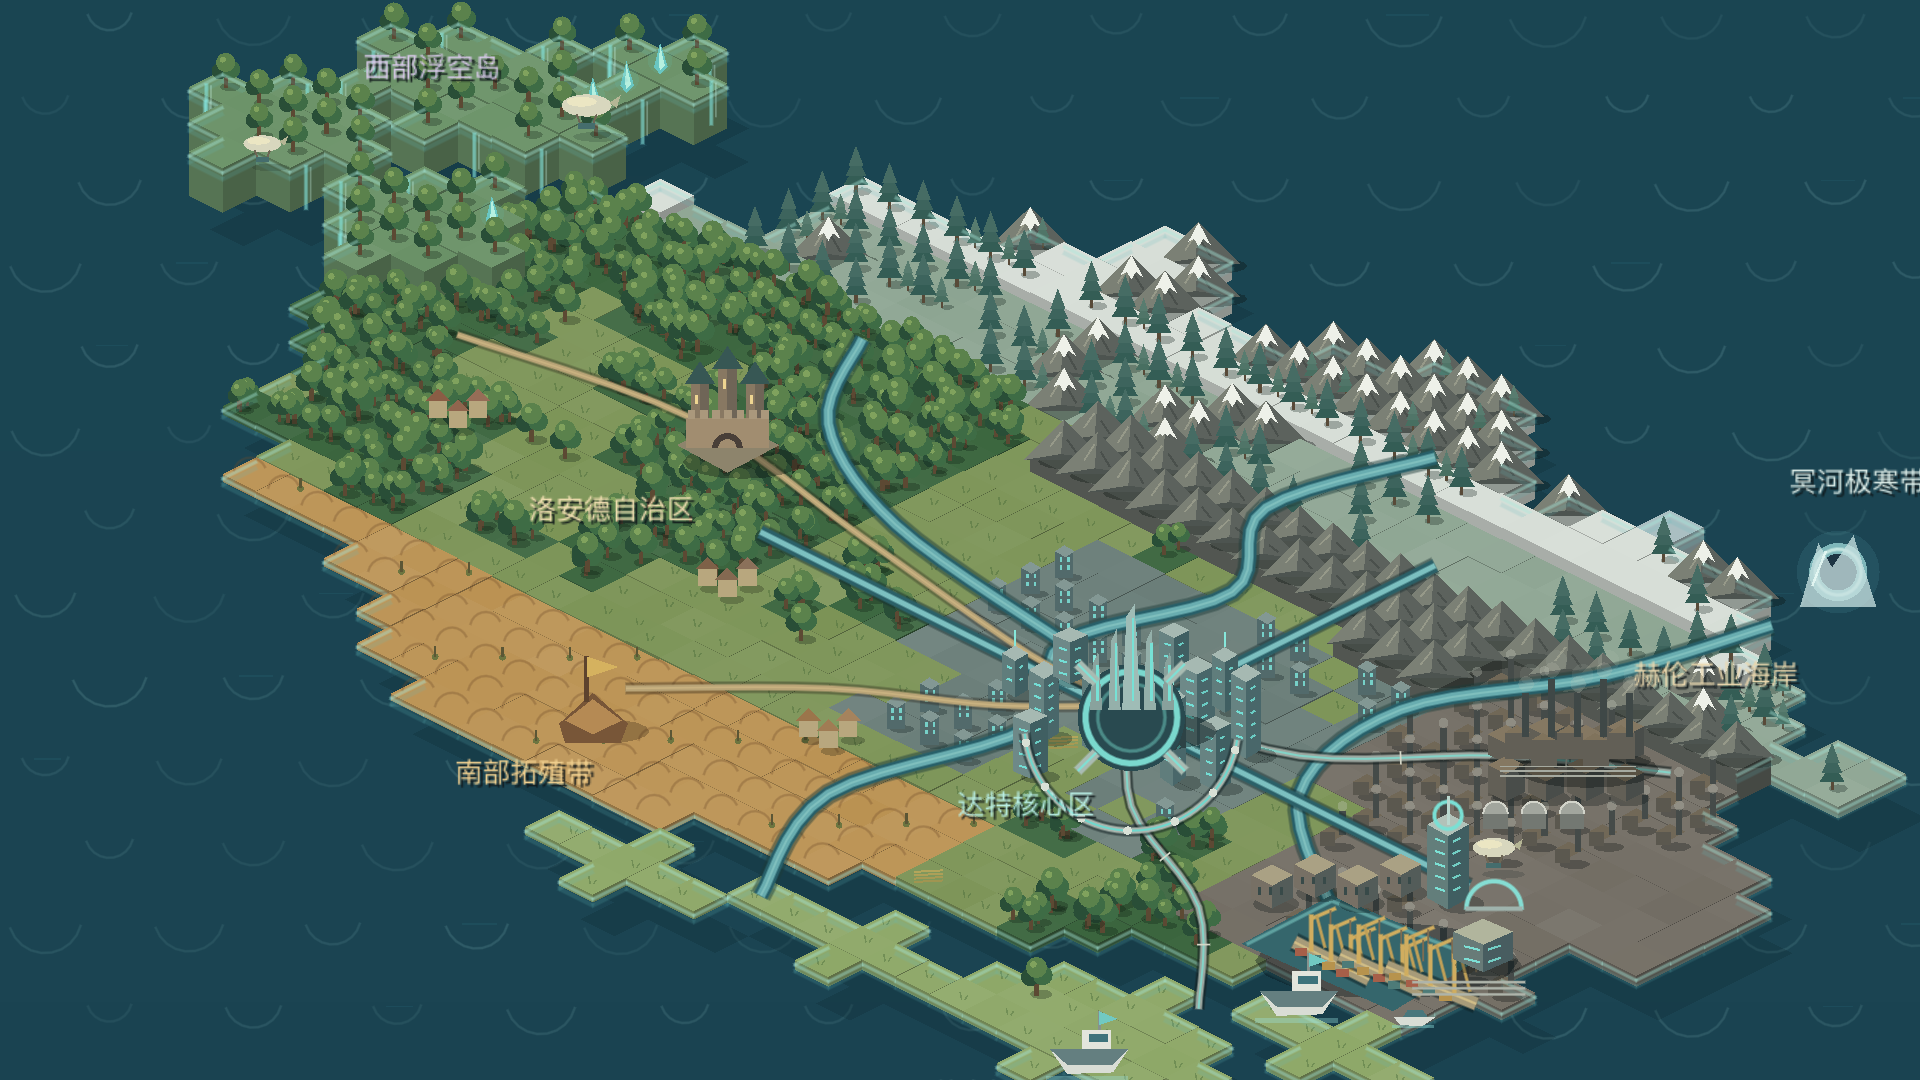
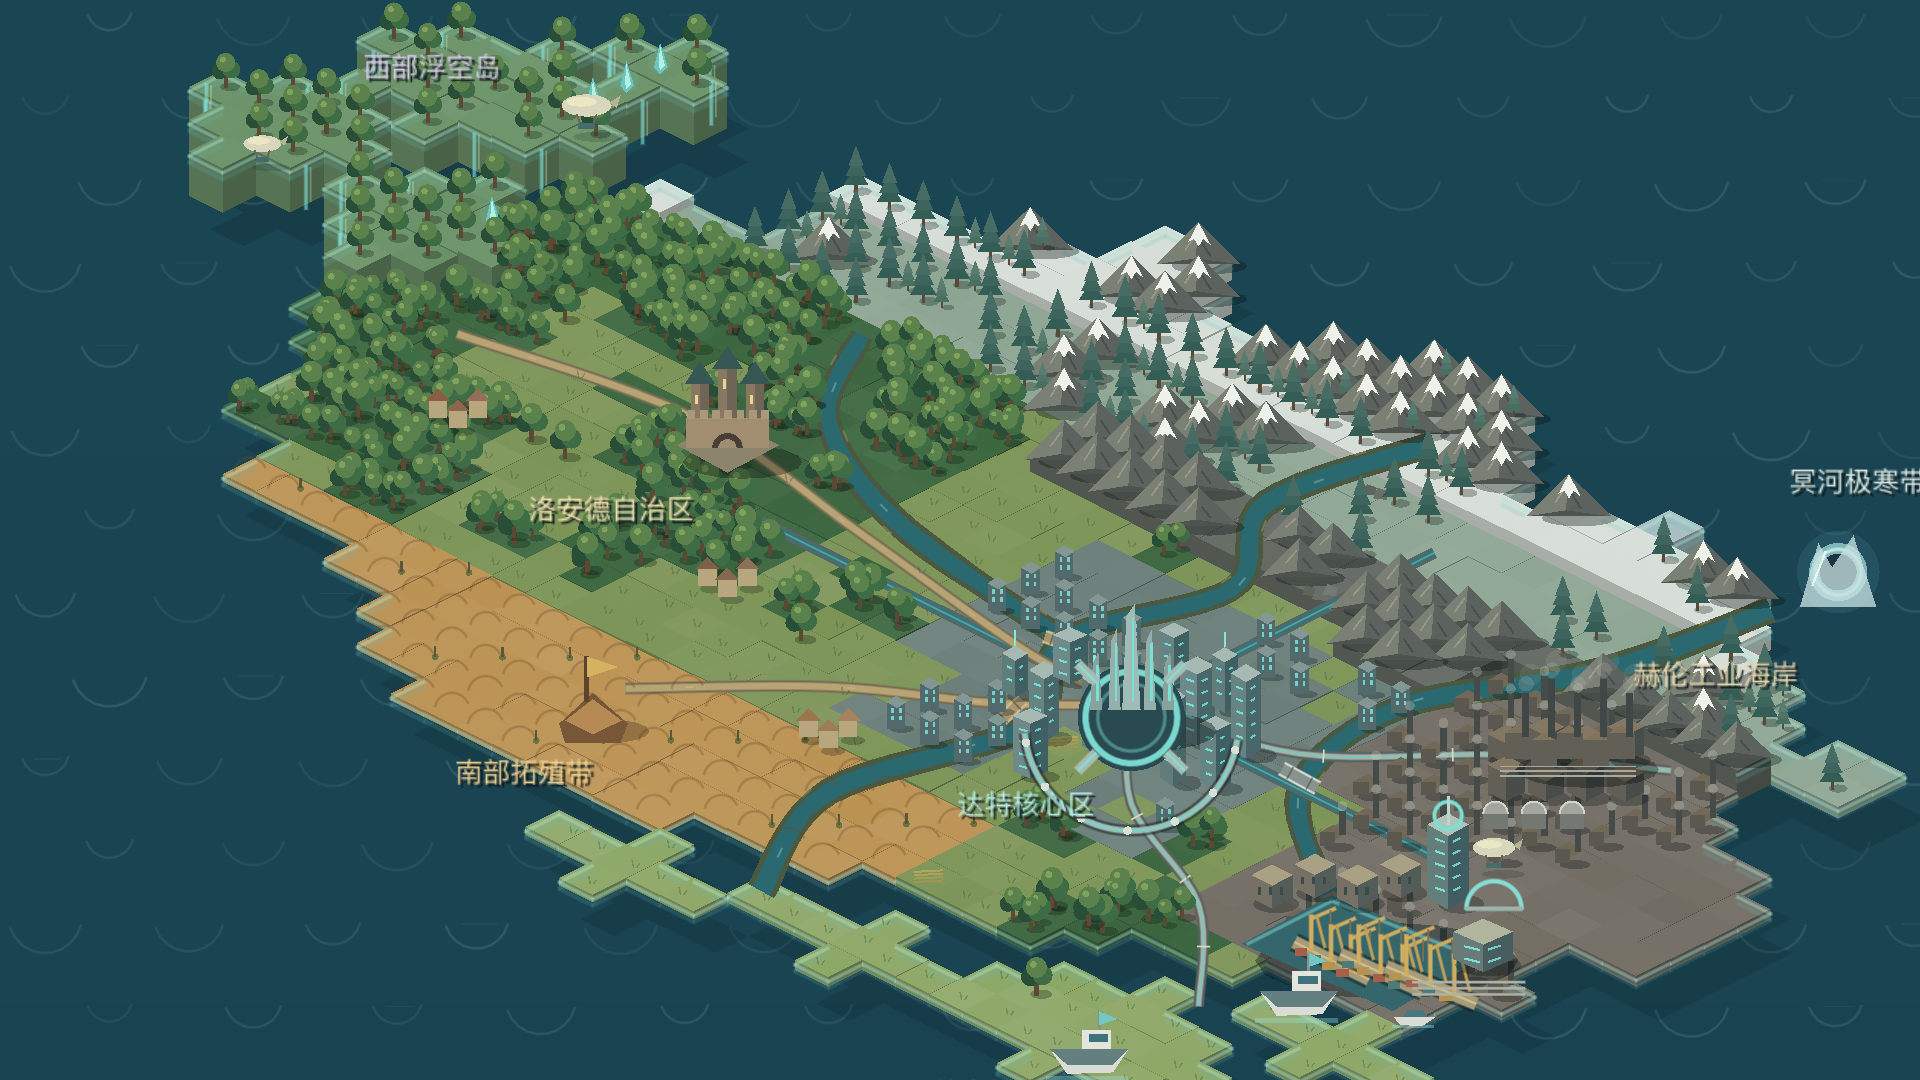
Integrate roads and rivers into terrain layers

diff --git a/docs/ring_world_map.md b/docs/ring_world_map.md
@@ -22,6 +22,10 @@ The active campaign map is a lightweight 2D isometric tile map implemented in
 - Datt and the modern port are multi-tile districts. Their towers, warehouses,
   exchange, terminals, cargo piers, cranes and vessels are separate draw
   elements, so the districts can be expanded without replacing the continent.
+- Rendering is ordered as terrain, carved waterways and roads, bridges,
+  vegetation, then buildings. Rivers use variable-width bank and water ribbons
+  sampled against terrain elevation; roads reserve clear verges and crossings
+  use separate bridge decks instead of drawing one line over another.
 - The campaign marker and route layer is currently disabled so landmarks stay
   readable while the world art is being developed. Set
   `show_campaign_overlay` on the map scene when that layer is ready to return.
